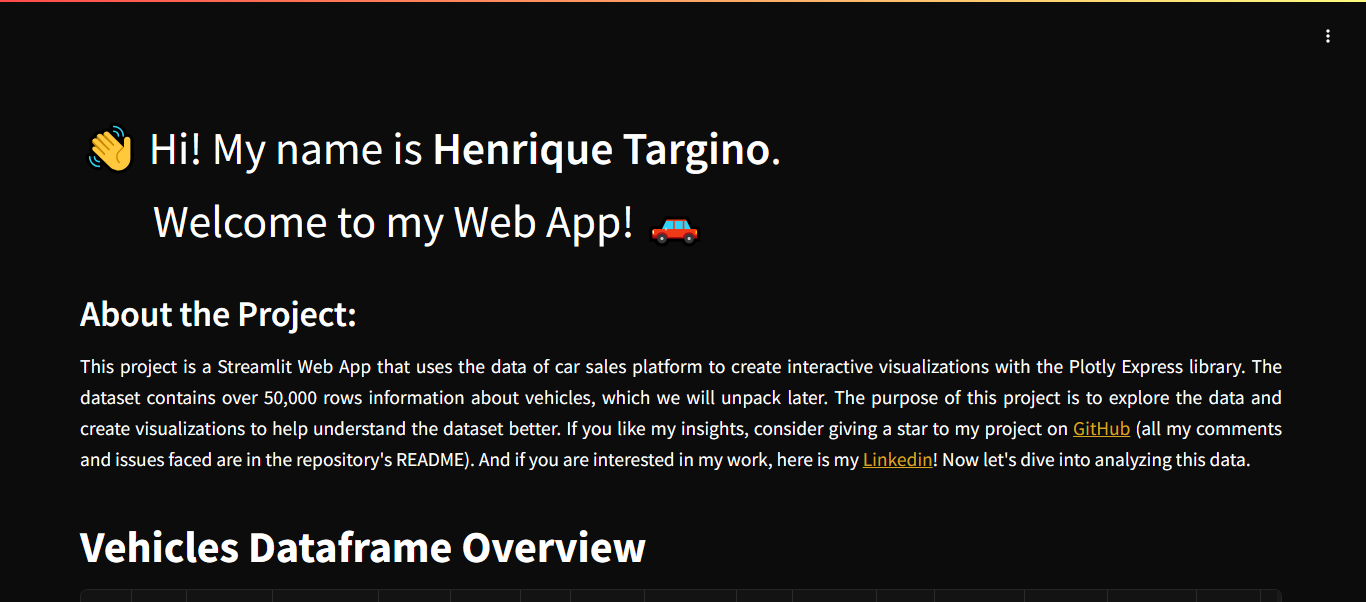
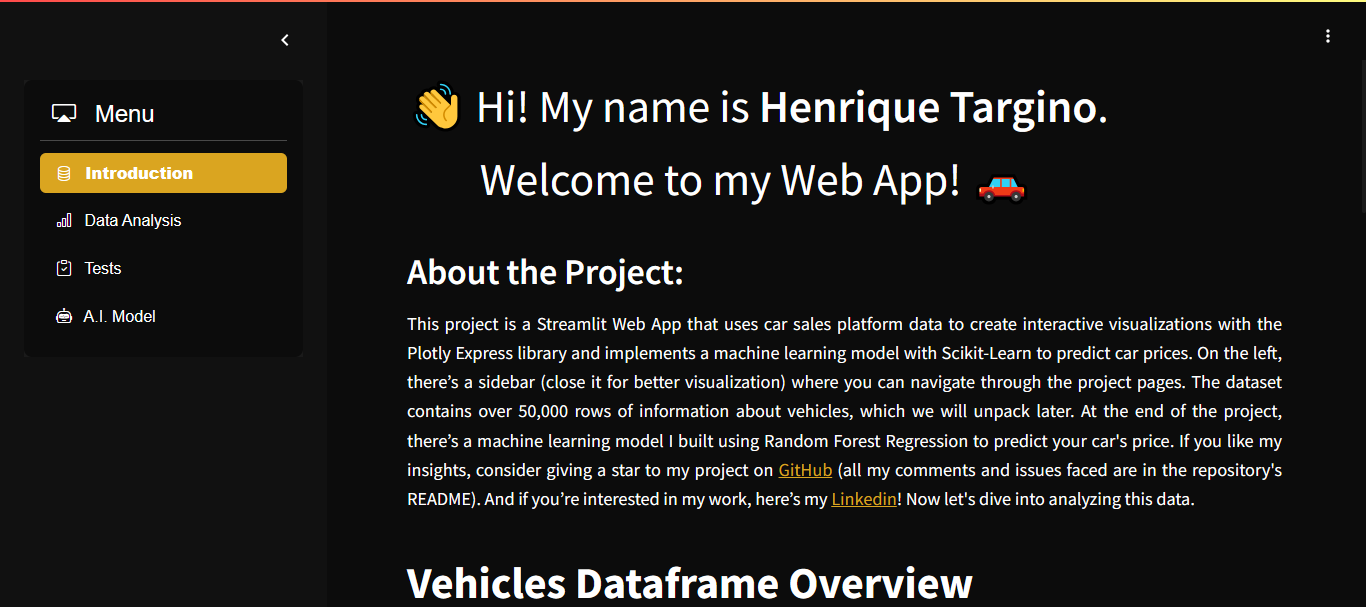
readme final

diff --git a/README.md b/README.md
@@ -2,13 +2,23 @@
 
 ![Vehicles Data Analysis](assets/Print1.PNG)
 
+## Interactive Graphs
+
+![Interactive Graphs](assets/Print3.PNG)
+
+## A.I. Model to Predict Car Prices
+
+![Model Car Prices](assets/Print2.PNG)
+
 ## Overview
 
-This web application is designed to provide an interactive and insightful analysis of vehicle data. Built using Streamlit, Plotly Express, and Pandas, it allows users to explore various aspects of car sales data through dynamic visualizations and statistical analyses. The app covers a range of topics, including price distribution by brand, car type distribution, fuel type analysis, and sales performance metrics. Additionally, it offers tools for downloading the dataset and performing advanced statistical tests like ANOVA and Tukey's HSD. Whether you're a car enthusiast, data analyst, or just curious about vehicle trends, this app provides a comprehensive platform for exploring and understanding car sales data.
+This web application is designed to provide an interactive and insightful analysis of vehicle data. Built using Streamlit, Plotly Express, and Pandas, it allows users to explore various aspects of car sales data through dynamic visualizations and statistical analyses. A machine learning model, developed with Scikit-learn, is also included to predict car prices based on features like brand, year, mileage, and fuel type. The app covers a range of topics, including price distribution by brand, car type distribution, fuel type analysis, and sales performance metrics. Additionally, it offers tools for downloading the dataset and performing advanced statistical tests like ANOVA and Tukey's HSD. Whether you're a car enthusiast, data analyst, or just curious about vehicle trends, this app provides a comprehensive platform for exploring and understanding car sales data.
 
 ## Problems Faced
 
-I encountered some problems while performing the Exploratory Data Analysis (EDA). The first issue was how to handle the missing values. More than 25,000 values were missing (about 10,000 in the "paint_color" column), so I replaced them with the term "unknown". The remaining 15,000 missing values were in the "model_year", "cylinders", and "odometer" columns. I filled the missing values in "cylinders" with the mode of the car model, "model_year" based on the car's condition and mileage, and "odometer" based on the year of manufacture. Another issue was with the Mercedes-Benz brand; the dataset contained only 40 rows of data for this brand and only 2 different cars, so I decided to exclude it from the analysis. More than 800 cars were listed with a price of USD $1, so I removed all cars priced below USD $100. Finally, the most challenging problem was that the web app would not open and displayed a red error screen. I spent an entire day trying to resolve this issue. Initially, I thought it was related to the style.css file, so I tried embedding the CSS, removing it, but nothing worked. Fortunately, I opened the same link on my mobile phone, and it did not return an error. I cleared the Google Chrome cache, and the web app started working.
+I encountered several challenges during the Exploratory Data Analysis (EDA). The first issue was handling missing values. Over 25,000 values were missing, including 10,000 in the "paint_color" column, which I replaced with "unknown." For the remaining 15,000 missing values in "model_year," "cylinders," and "odometer," I filled them based on the mode of the car model, the car's condition and mileage, and the year of manufacture, respectively. Additionally, the Mercedes-Benz brand had only 40 rows of data for two car models, so I excluded it from the analysis. I also removed over 800 cars priced below USD $100, as they were likely unreal outliers.
+
+Finding a reliable machine learning model was another challenge. While testing Random Forest Regression, it was difficult to balance speed and accuracy. I also tried Linear Regression, but its accuracy was poor, making it unsuitable for predicting car prices. Lastly, my web app initially wouldn’t open, displaying a red error screen. I spent hours troubleshooting, thinking it was related to the CSS file, but later discovered the issue was with my browser. Clearing the Google Chrome cache resolved the problem.
 
 ## Features
 
@@ -16,6 +26,7 @@ I encountered some problems while performing the Exploratory Data Analysis (EDA)
 - **Statistical Analysis**: Perform advanced statistical tests like ANOVA and Tukey's HSD.
 - **Data Download**: Download the dataset for further analysis.
 - **Responsive Design**: The app is designed to be responsive and works well on different screen sizes.
+- **Machine Learning Model**: Predict car prices based on features like brand, year, mileage, fuel type and more.
 
 ## Technologies Used
 
@@ -28,6 +39,7 @@ I encountered some problems while performing the Exploratory Data Analysis (EDA)
 - **Font Awesome**: For adding icons to the footer.
 - **Jupyter Notebook**: For Exploratory Data Analysis (EDA).
 - **CSS**: For the style of the web app.
+- **Scikit-Learning**: For training machine learning models.
 
 ## Installation
 
